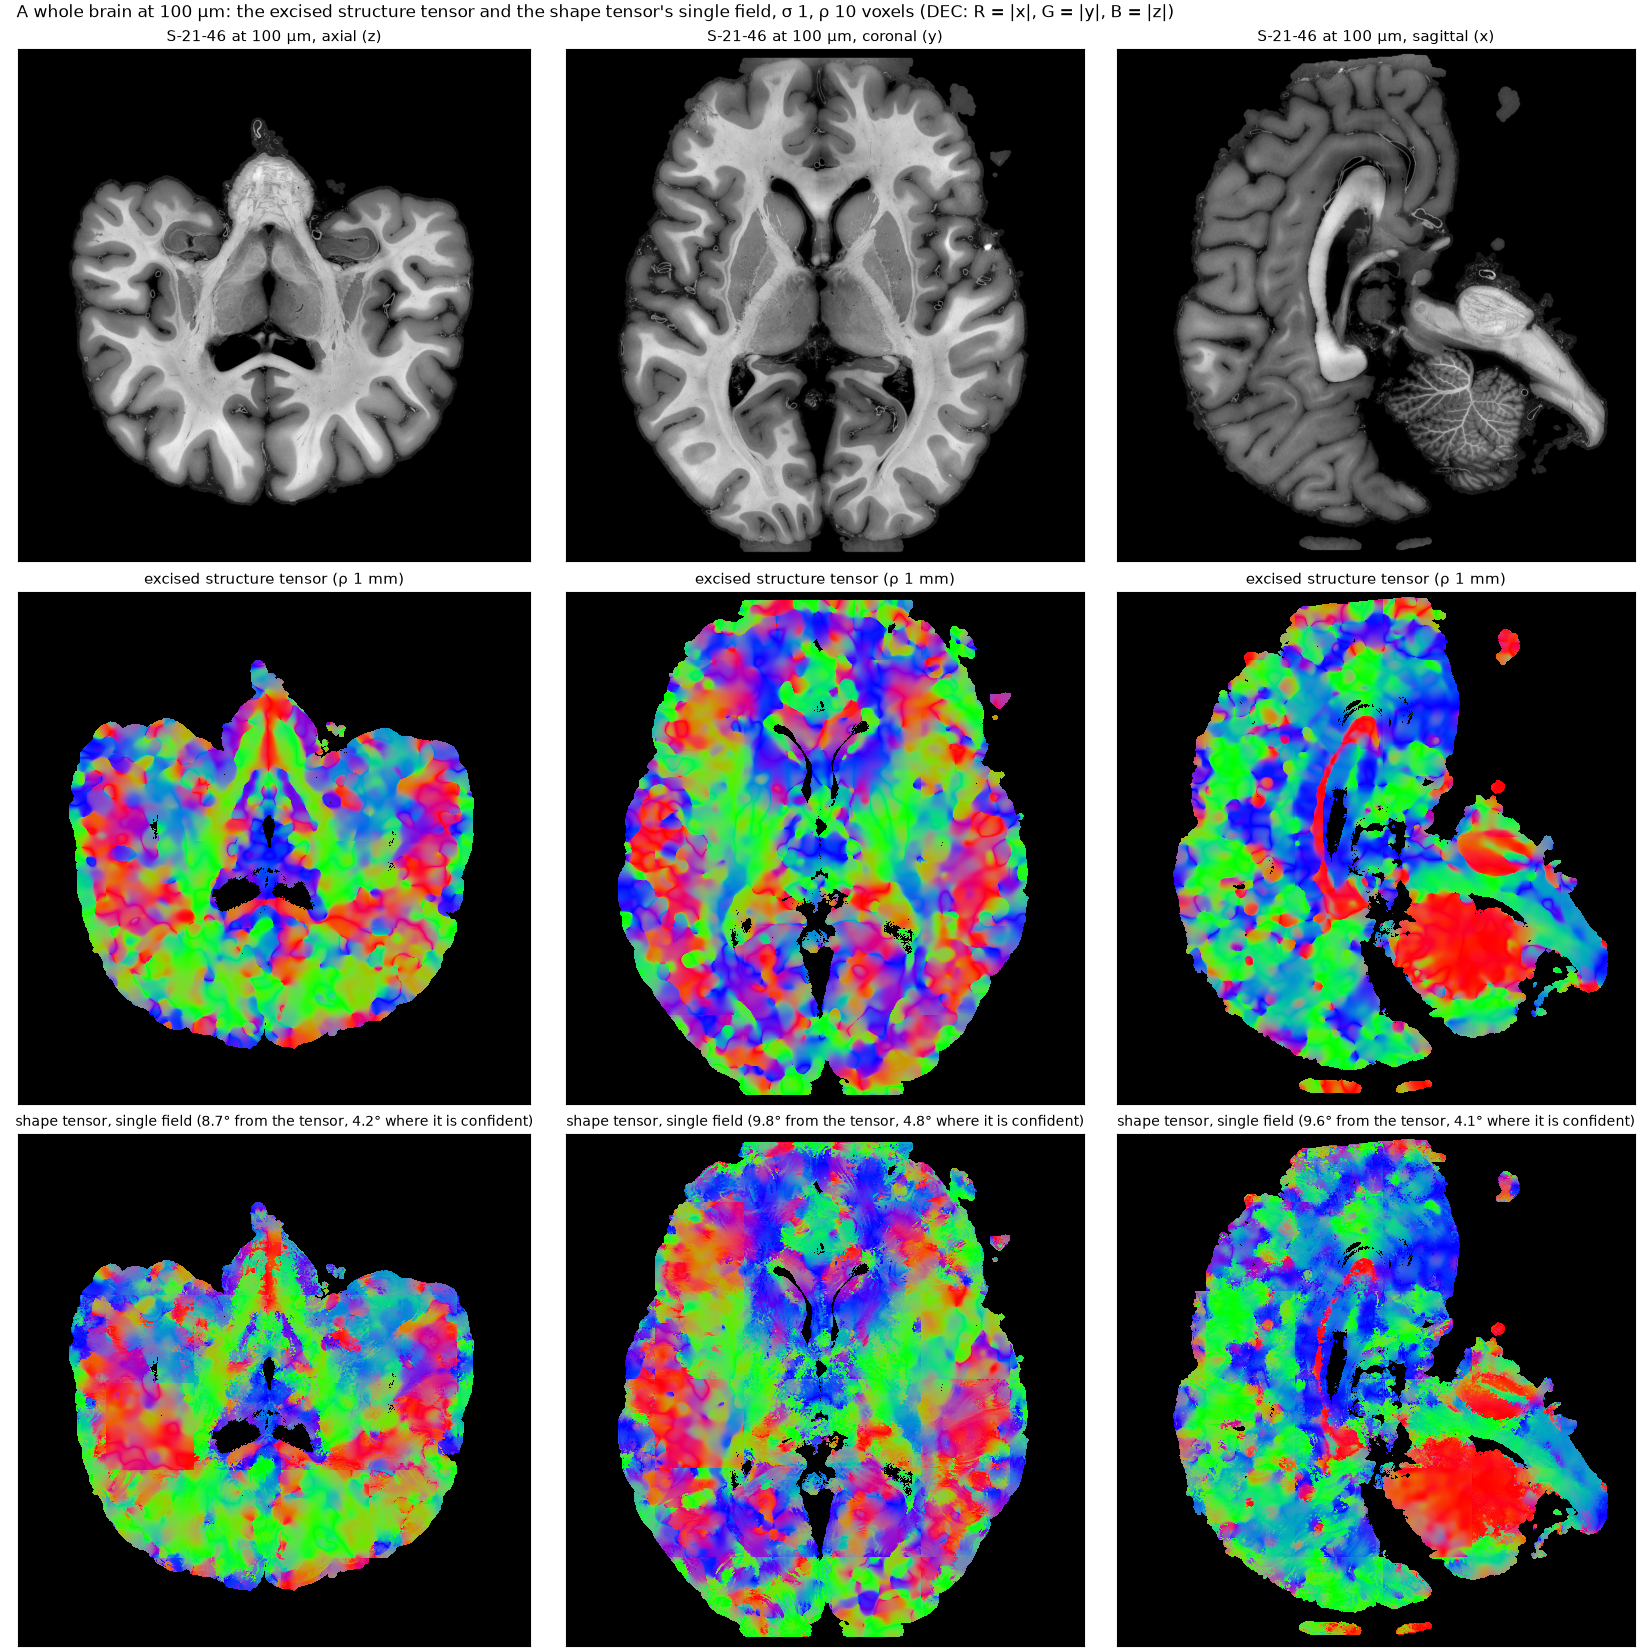
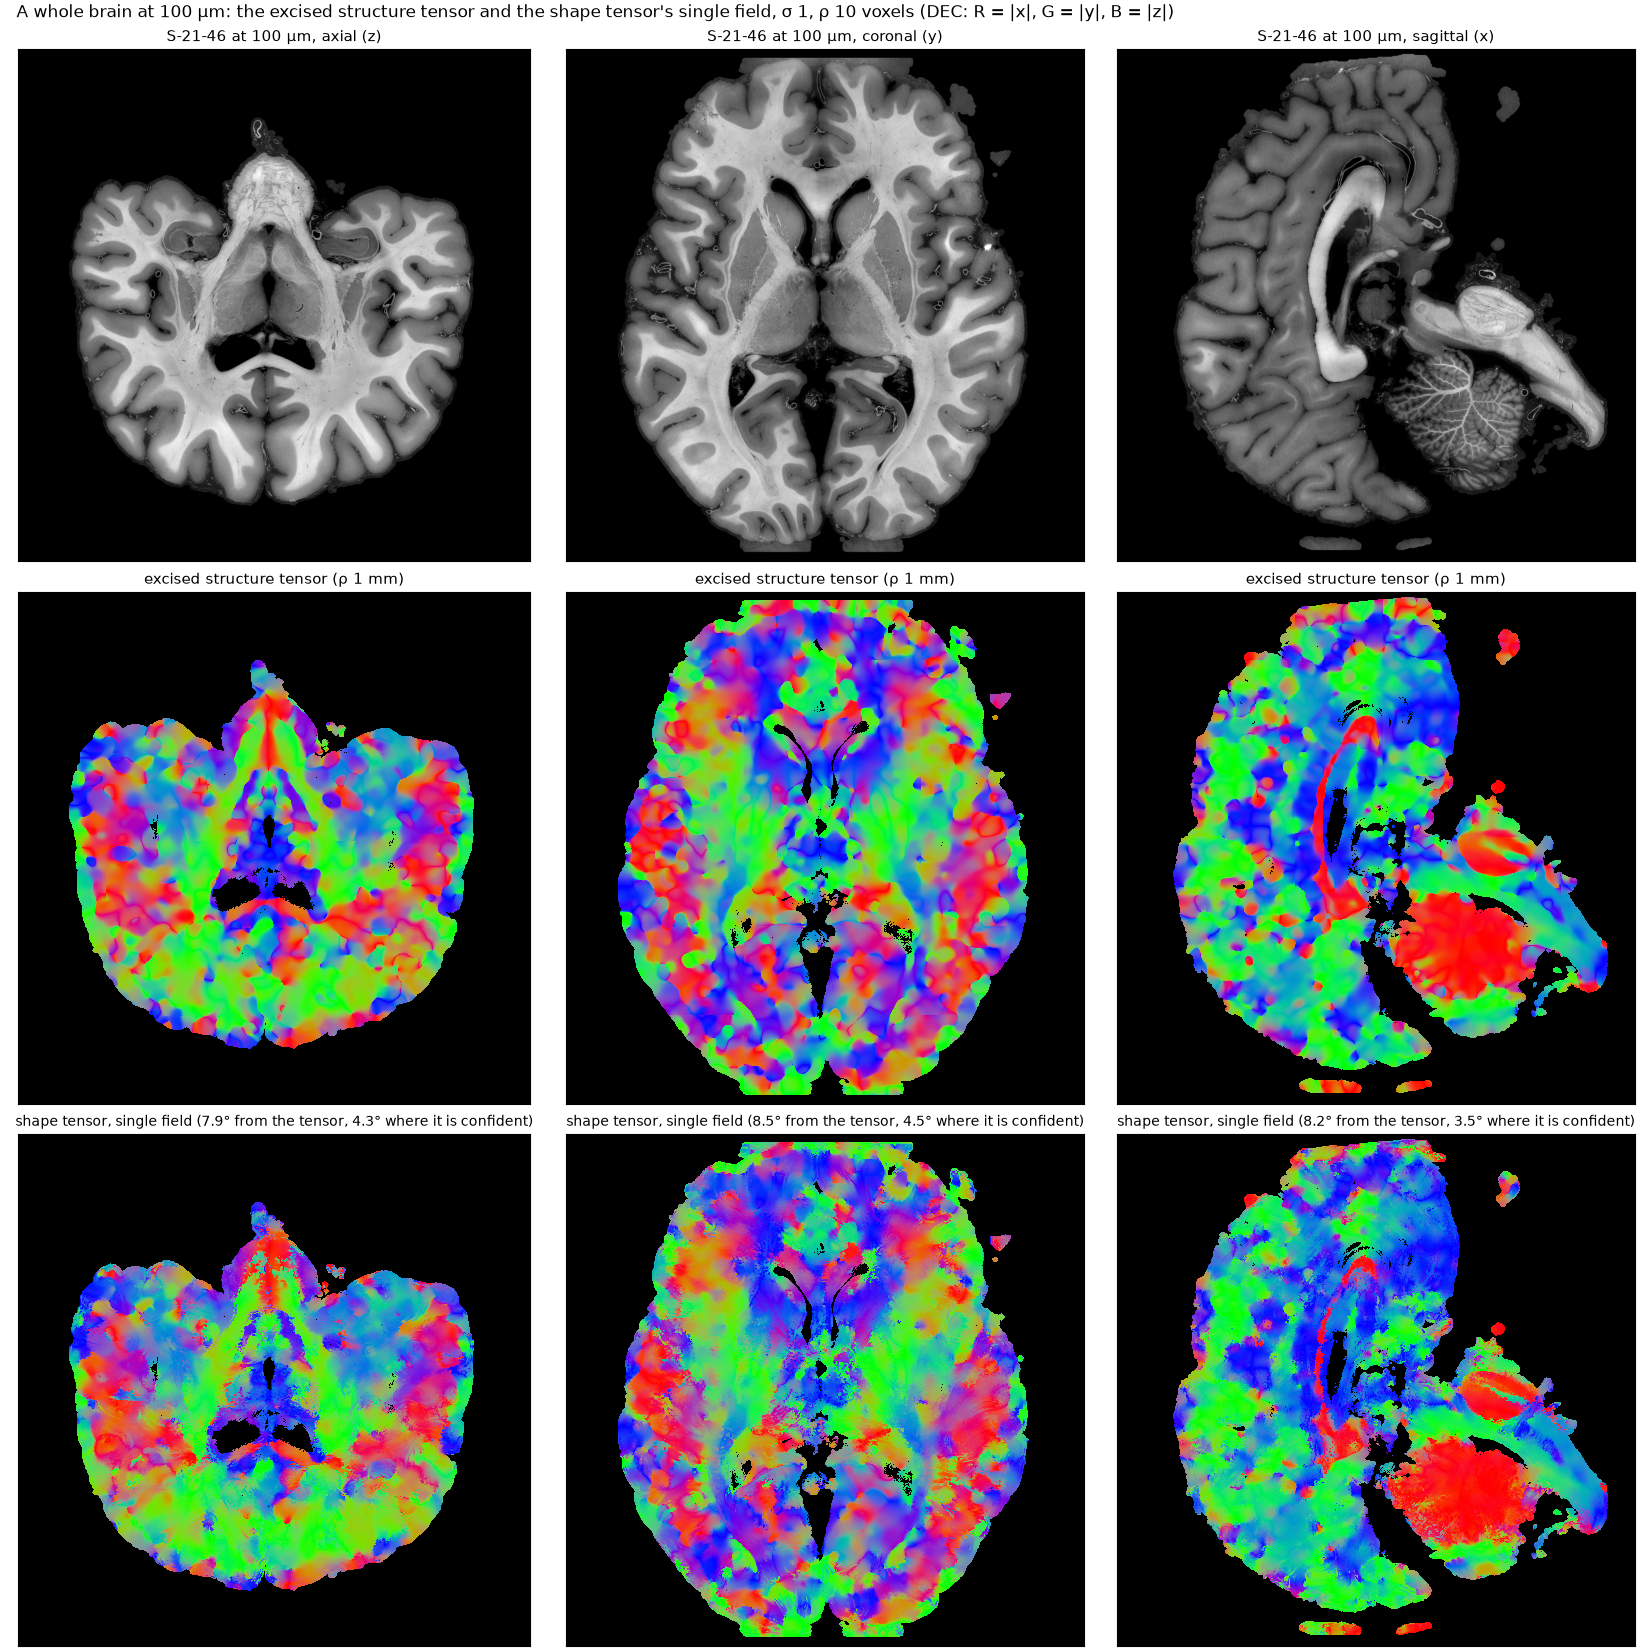
The blended, per-chunk-calibrated whole brain at 100 µm: figure, numbers, results log

Changed region(s): [[0.3709, 0.68, 0.6182, 1.0], [0.7109, 0.68, 0.9891, 0.9891], [0.0309, 0.7418, 0.3091, 0.9582]]

diff --git a/docs/scales.md b/docs/scales.md
@@ -65,3 +65,13 @@ every face, chunks without tissue skipped, and the excised structure tensor over
 field is drawn as plain DEC.
 
 ![whole brain](img/wholebrain_100um.png)
+
+121 chunks of 256³ held tissue, 95 were air and skipped; 114 chunks used their own calibration and 7 the volume's
+(a teacher with too few orientations, or too little oriented tissue to fit on). No chunk failed, and the field has
+no seams. On the three mid planes the single field is 8° from the excised tensor over the tissue and 4° where the
+tensor is confident. The shape pass took 2 hours at a median of 62 s per chunk (the per-chunk calibration, the
+overlap and the accumulators on top of the 26 s of stages 2–4), the blended write 6 minutes and the structure
+tensor 5 minutes. The two fields agree on the large structure, the corpus callosum, the internal capsule, the
+cerebellar peduncles; the shape tensor is the finer-grained of the two, following the gyral white matter and the
+cortex at the scale of its receptive field (1.6 mm here) where the structure tensor's 1 mm window has already
+averaged it.

diff --git a/TCA_FIELD_RESULTS.md b/TCA_FIELD_RESULTS.md
@@ -125,3 +125,9 @@ Profiled on the HiP-CT block (192³ stages 2–4; 384³ calibration), synchronis
 - The multi-vector field stays per chunk (no blending of population sets); documented.
 - Display: every direction field as plain DEC at every voxel, the shape tensor's exactly as the structure tensor's;
   the activation shown only as its own layers (the renderings page keeps the alternatives).
+- **Whole brain at 100 µm, blended and per-chunk calibrated** (`/hdd/andrew/shapetensor_runs/S-21-46_100um_chunkcal`):
+  121 tissue chunks, 114 own-calibrated, 7 on the volume calibration (4 of them because their own fit failed on
+  too little oriented tissue — now caught and logged), 0 failed; median 62 s per chunk (26 s of stages 2–4 on the
+  408³ block + calibration + accumulator I/O), 2 h 3 min for the shape pass, 6 min for the blended write, 4.5 min
+  for the structure tensor. Agreement with the excised tensor on the mid planes 7.9 / 8.5 / 8.2° (4.3 / 4.5 / 3.5°
+  where confident). No seams visible. The single-calibration run (9.4 + 7.8 GB) deleted.
